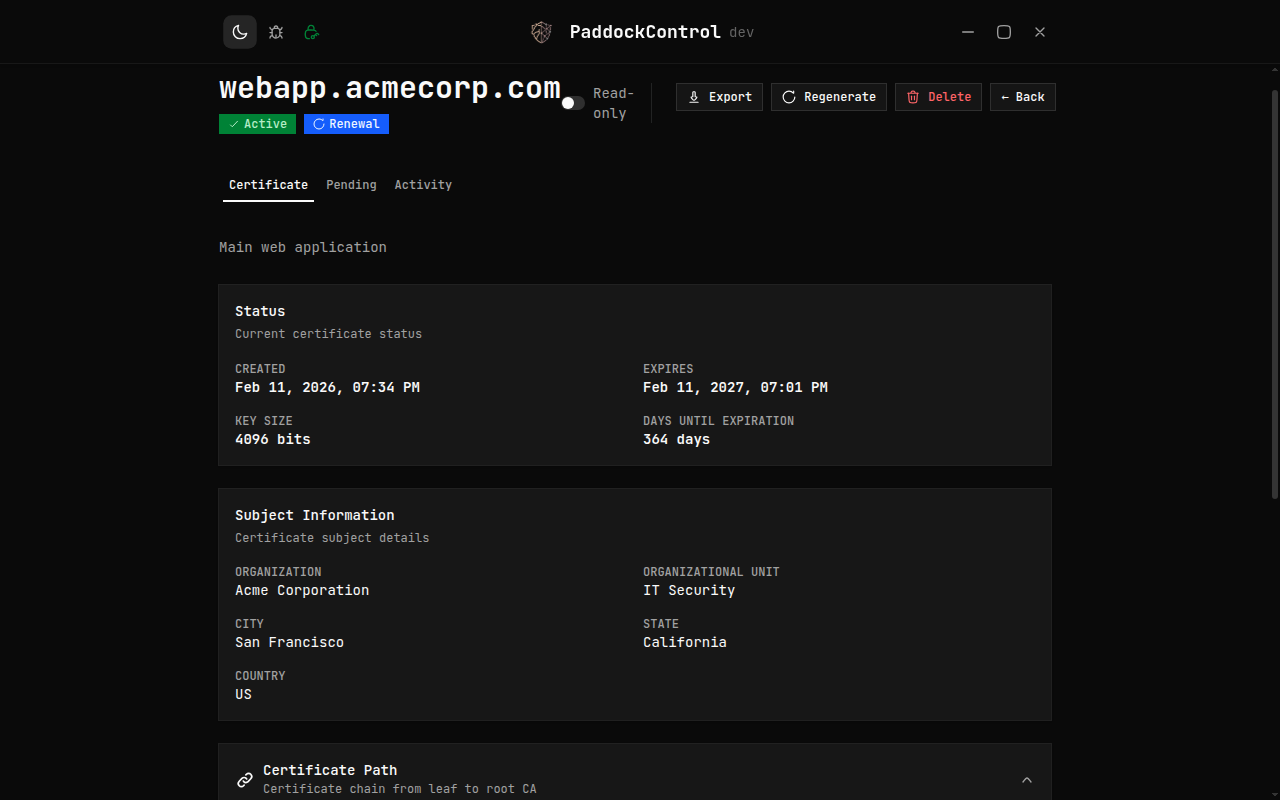
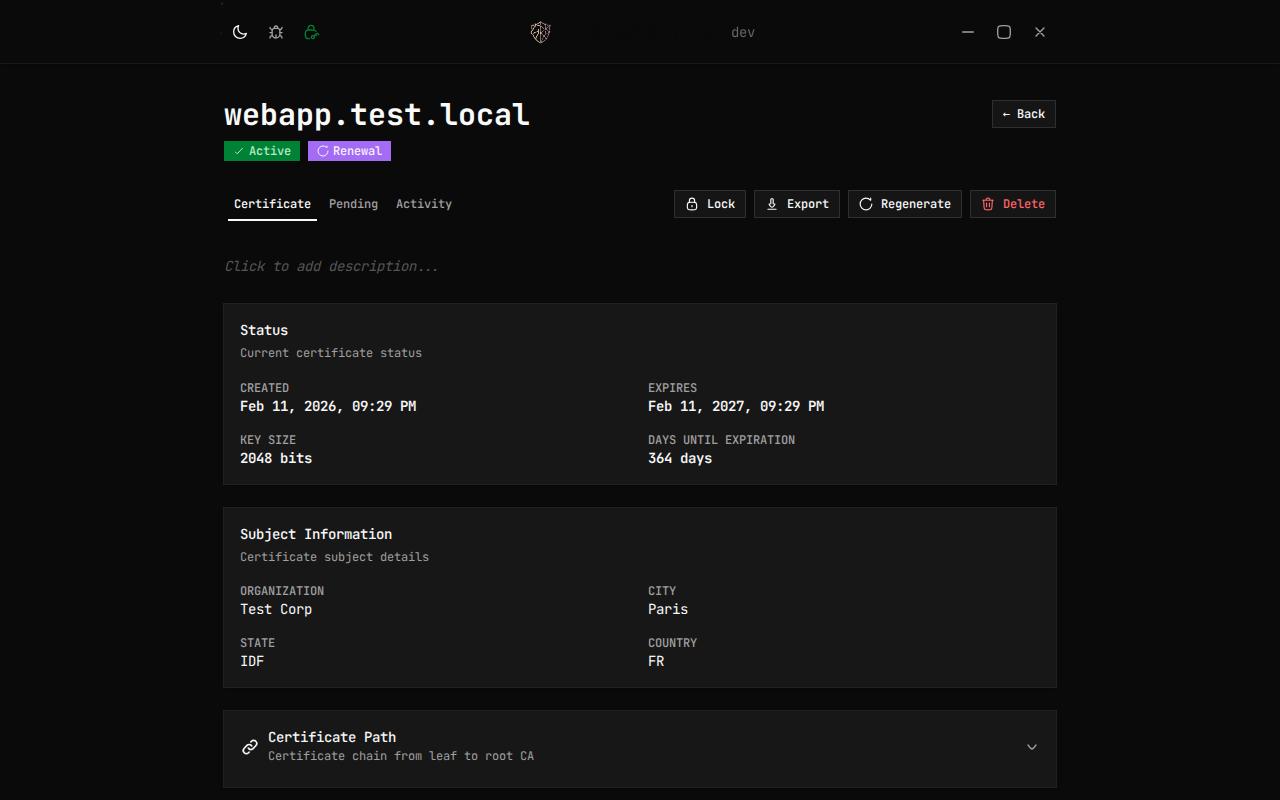
feat: automate README screenshot generation with Playwright
Add a Playwright spec that seeds synthetic certificate data and captures
all 6 screenshots (welcome, dashboard, detail in light/dark themes).
Runs via `task screenshots`, excluded from the regular e2e test suite.

Also fix the logger creating a literal `:memory:` directory on disk
when running with in-memory database mode during e2e tests.

diff --git a/frontend/e2e/screenshots.spec.ts b/frontend/e2e/screenshots.spec.ts
@@ -1,0 +1,213 @@
+/**
+ * Screenshot automation for README documentation.
+ *
+ * Seeds the app with synthetic certificate data and captures
+ * screenshots of key pages in both light and dark themes.
+ *
+ * The View Transitions API is disabled so theme toggles are instant,
+ * while motion entrance animations are left intact and given time to complete.
+ *
+ * Run: task screenshots
+ */
+import { test } from "@playwright/test";
+import { execSync } from "child_process";
+import { mkdtempSync, writeFileSync, readFileSync, rmSync } from "fs";
+import { join, dirname } from "path";
+import { fileURLToPath } from "url";
+import { resetDatabase, completeSetupWizard, waitForWails } from "./helpers";
+
+const __filename = fileURLToPath(import.meta.url);
+const __dirname = dirname(__filename);
+
+// Screenshot output directory (relative to frontend/)
+const SCREENSHOT_DIR = join(__dirname, "../../docs/screenshots");
+
+// Temp directory for synthetic CA — created per run, cleaned up after
+let tmpDir: string;
+
+// ─── Helpers ────────────────────────────────────────────────────────────────
+
+/**
+ * Disable the View Transitions API so theme toggles apply instantly
+ * instead of playing a 700ms clip-path animation.
+ * Must be called after each navigation (page.goto / page.reload).
+ */
+async function disableViewTransitions(page: import("@playwright/test").Page) {
+    await page.evaluate(() => {
+        // eslint-disable-next-line @typescript-eslint/no-explicit-any
+        (document as any).startViewTransition = undefined;
+    });
+}
+
+async function toggleTheme(page: import("@playwright/test").Page) {
+    await page.getByRole("button", { name: /Switch to (dark|light) mode/i }).click();
+    // Move mouse away from button to clear hover/active state,
+    // then blur to remove focus ring
+    await page.mouse.move(640, 400);
+    await page.evaluate(() => {
+        if (document.activeElement instanceof HTMLElement) document.activeElement.blur();
+    });
+    // Wait for React state + DOM repaint (no View Transition animation)
+    await page.waitForTimeout(300);
+}
+
+async function screenshot(page: import("@playwright/test").Page, name: string) {
+    await page.screenshot({ path: join(SCREENSHOT_DIR, `${name}.png`) });
+}
+
+function createSyntheticCA() {
+    tmpDir = mkdtempSync("/tmp/screenshot-ca-");
+    execSync(
+        `openssl req -x509 -newkey rsa:2048 -keyout "${tmpDir}/ca.key" -out "${tmpDir}/ca.crt" -days 365 -nodes -subj "/CN=Test CA/O=Test Corp"`,
+        { stdio: "ignore" }
+    );
+}
+
+function signCSR(csrPEM: string, hostname: string): string {
+    const csrPath = join(tmpDir, `${hostname}.csr`);
+    const certPath = join(tmpDir, `${hostname}.crt`);
+    writeFileSync(csrPath, csrPEM);
+    execSync(
+        `openssl x509 -req -in "${csrPath}" -CA "${tmpDir}/ca.crt" -CAkey "${tmpDir}/ca.key" -CAcreateserial -out "${certPath}" -days 365`,
+        { stdio: "ignore" }
+    );
+    return readFileSync(certPath, "utf-8");
+}
+
+// eslint-disable-next-line @typescript-eslint/no-explicit-any
+async function wails(page: import("@playwright/test").Page, method: string, ...args: any[]) {
+    return page.evaluate(
+        ([m, ...a]) => {
+            // eslint-disable-next-line @typescript-eslint/no-explicit-any
+            const app = (window as any).go.main.App;
+            return app[m](...a);
+        },
+        [method, ...args]
+    );
+}
+
+// ─── Test ───────────────────────────────────────────────────────────────────
+
+test.describe("Screenshots", () => {
+    test("generate README screenshots", async ({ page }) => {
+        // Fixed viewport matching the previous manual screenshots
+        await page.setViewportSize({ width: 1280, height: 800 });
+
+        // ── Welcome page screenshots ────────────────────────────────
+        await test.step("Welcome screenshots", async () => {
+            await resetDatabase(page);
+            // View Transitions are already skipped on the welcome page
+            // (it has .stars-bg-container), but disable for safety
+            await disableViewTransitions(page);
+
+            // Wait for the entrance animations to fully complete:
+            // "Welcome to" types out (~1.3s), fades, logo + "PaddockControl"
+            // types (~1.7s), cards slide in (~2.2s + 0.4s duration)
+            await page.getByText("New Setup").waitFor({ state: "visible", timeout: 15000 });
+            await page.waitForTimeout(3000);
+
+            await screenshot(page, "welcome-light");
+
+            await toggleTheme(page);
+            await screenshot(page, "welcome-dark");
+
+            // Restore light theme for setup wizard
+            await toggleTheme(page);
+        });
+
+        // ── Seed synthetic data ─────────────────────────────────────
+        await test.step("Seed synthetic data", async () => {
+            await completeSetupWizard(page);
+            await disableViewTransitions(page);
+
+            // Generate 3 CSRs via Wails bindings (2048-bit for speed)
+            const csrDefaults = {
+                organization: "Test Corp",
+                city: "Paris",
+                state: "IDF",
+                country: "FR",
+                key_size: 2048,
+                skip_suffix_validation: true,
+            };
+
+            const hostnames = ["webapp.test.local", "api.test.local", "mail.test.local"];
+            for (const hostname of hostnames) {
+                await wails(page, "GenerateCSR", { hostname, ...csrDefaults });
+            }
+
+            // Create synthetic CA and sign webapp + api certificates
+            createSyntheticCA();
+
+            for (const hostname of ["webapp.test.local", "api.test.local"]) {
+                // Get CSR PEM from the app
+                // eslint-disable-next-line @typescript-eslint/no-explicit-any
+                const cert: any = await wails(page, "GetCertificate", hostname);
+                const csrPEM = cert.pending_csr;
+
+                // Sign with synthetic CA
+                const signedCertPEM = signCSR(csrPEM, hostname);
+
+                // Upload signed certificate
+                await wails(page, "UploadCertificate", hostname, signedCertPEM);
+            }
+
+            // Generate renewal CSR for webapp (active cert + pending renewal)
+            await wails(page, "GenerateCSR", {
+                hostname: "webapp.test.local",
+                is_renewal: true,
+                ...csrDefaults,
+            });
+        });
+
+        // ── Dashboard screenshots ───────────────────────────────────
+        await test.step("Dashboard screenshots", async () => {
+            await page.goto("/");
+            await waitForWails(page);
+            await disableViewTransitions(page);
+
+            // Wait for all 3 certificate cards to render
+            await page.getByRole("heading", { name: "webapp.test.local" }).waitFor({ state: "visible" });
+            await page.getByRole("heading", { name: "api.test.local" }).waitFor({ state: "visible" });
+            await page.getByRole("heading", { name: "mail.test.local" }).waitFor({ state: "visible" });
+            // Let motion card entrance animations settle
+            await page.waitForTimeout(500);
+
+            await screenshot(page, "dashboard-light");
+
+            await toggleTheme(page);
+            await screenshot(page, "dashboard-dark");
+        });
+
+        // ── Certificate detail screenshots ──────────────────────────
+        await test.step("Certificate detail screenshots", async () => {
+            // Switch back to light before navigating
+            await toggleTheme(page);
+
+            // Navigate to webapp.test.local detail
+            await page.getByRole("heading", { name: "webapp.test.local" }).click();
+            await page.waitForURL(/webapp/);
+            await disableViewTransitions(page);
+
+            // Wait for certificate details to load
+            await page.getByText("webapp.test.local").first().waitFor({ state: "visible" });
+            // Let motion entrance animations settle
+            await page.waitForTimeout(500);
+
+            await screenshot(page, "certificate-detail-light");
+
+            await toggleTheme(page);
+            await screenshot(page, "certificate-detail-dark");
+        });
+    });
+
+    test.afterAll(() => {
+        // Clean up synthetic CA temp directory
+        if (tmpDir) {
+            try {
+                rmSync(tmpDir, { recursive: true, force: true });
+            } catch {
+                // Ignore cleanup errors
+            }
+        }
+    });
+});

diff --git a/frontend/playwright.config.ts b/frontend/playwright.config.ts
@@ -9,6 +9,7 @@ const VITE_PORT = process.env.PLAYWRIGHT_VITE_PORT || "5174";
 
 export default defineConfig({
   testDir: "./e2e",
+  testIgnore: ["**/screenshots.spec.ts"],
   fullyParallel: false,
   forbidOnly: !!process.env.CI,
   retries: process.env.CI ? 2 : 0,

diff --git a/internal/logger/logger.go b/internal/logger/logger.go
@@ -22,44 +22,61 @@ var (
 	logWriter *lumberjack.Logger
 )
 
-// Initialize sets up structured logging based on build mode
+// Initialize sets up structured logging based on build mode.
+// When dataDir is ":memory:" (e.g. during e2e tests), file logging is
+// skipped entirely to avoid creating a literal ":memory:" directory on disk.
 func Initialize(dataDir string, production bool) error {
-	logsDir = filepath.Join(dataDir, "logs")
-
-	// Always create logs directory for export functionality
-	if err := os.MkdirAll(logsDir, 0700); err != nil {
-		return fmt.Errorf("failed to create logs directory: %w", err)
-	}
-
-	// Always set up file logging with rotation
-	logWriter = &lumberjack.Logger{
-		Filename:   filepath.Join(logsDir, "paddockcontrol.log"),
-		MaxSize:    10,   // MB
-		MaxBackups: 5,    // Keep 5 old log files
-		MaxAge:     30,   // Days
-		Compress:   true, // Compress old logs
-	}
+	inMemory := dataDir == ":memory:"
 
 	var handler slog.Handler
 
-	if production {
-		// Production: JSON logs to file only
-		handler = slog.NewJSONHandler(logWriter, &slog.HandlerOptions{
-			Level:     slog.LevelInfo,
-			AddSource: true,
-		})
+	if inMemory {
+		// In-memory mode: stdout only, no file logging
+		if production {
+			handler = slog.NewJSONHandler(os.Stdout, &slog.HandlerOptions{
+				Level:     slog.LevelInfo,
+				AddSource: true,
+			})
+		} else {
+			handler = newColoredHandler(os.Stdout, &slog.HandlerOptions{
+				Level:     slog.LevelDebug,
+				AddSource: true,
+			})
+		}
 	} else {
-		// Development: colored text to stdout + JSON to file (multi-writer)
-		handler = newMultiHandler(
-			newColoredHandler(os.Stdout, &slog.HandlerOptions{
-				Level:     slog.LevelDebug,
+		logsDir = filepath.Join(dataDir, "logs")
+
+		if err := os.MkdirAll(logsDir, 0700); err != nil {
+			return fmt.Errorf("failed to create logs directory: %w", err)
+		}
+
+		logWriter = &lumberjack.Logger{
+			Filename:   filepath.Join(logsDir, "paddockcontrol.log"),
+			MaxSize:    10,   // MB
+			MaxBackups: 5,    // Keep 5 old log files
+			MaxAge:     30,   // Days
+			Compress:   true, // Compress old logs
+		}
+
+		if production {
+			// Production: JSON logs to file only
+			handler = slog.NewJSONHandler(logWriter, &slog.HandlerOptions{
+				Level:     slog.LevelInfo,
 				AddSource: true,
-			}),
-			slog.NewJSONHandler(logWriter, &slog.HandlerOptions{
-				Level:     slog.LevelDebug,
-				AddSource: true,
-			}),
-		)
+			})
+		} else {
+			// Development: colored text to stdout + JSON to file
+			handler = newMultiHandler(
+				newColoredHandler(os.Stdout, &slog.HandlerOptions{
+					Level:     slog.LevelDebug,
+					AddSource: true,
+				}),
+				slog.NewJSONHandler(logWriter, &slog.HandlerOptions{
+					Level:     slog.LevelDebug,
+					AddSource: true,
+				}),
+			)
+		}
 	}
 
 	defaultLogger = slog.New(handler)

diff --git a/CONTRIBUTING.md b/CONTRIBUTING.md
@@ -28,6 +28,7 @@ task dev
 | `cd frontend && npm run typecheck`            | TypeScript type check                                        |
 | `cd internal/db && sqlc generate`             | Regenerate DB types after SQL changes                        |
 | `cd frontend && npx shadcn@latest add [name]` | Add a shadcn/ui component                                    |
+| `task screenshots`                            | Regenerate README screenshots with synthetic data            |
 
 ## Project Structure
 
